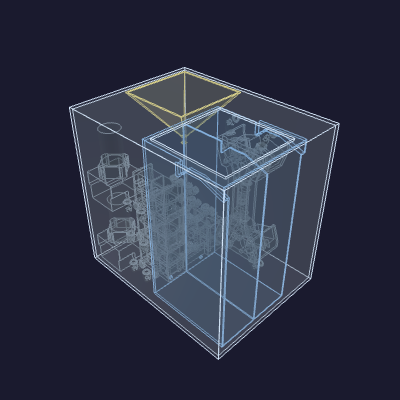
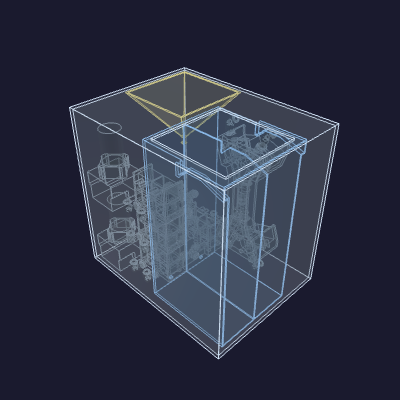
pie-in-the-sky/lite: regenerate enclosure (outer X 311.1 -> 311.8 mm)
Regenerated lite enclosure + assembly artifacts; the docgen-driven outer
envelope X updates to 311.8 mm from the live lite contents.

diff --git a/pie-in-the-sky/lite/enclosure/README.md b/pie-in-the-sky/lite/enclosure/README.md
@@ -21,7 +21,7 @@ contents bbox, lid hole clearance [2 mm](LID_HOLE_CLEARANCE) off the funnel
 rim. Read live from the contents placed by `../enclosure-assembly/_contents.py`
 and from `funnel.step`, so any move in the contents propagates.
 
-Outer envelope [311.1 mm](LITE_OUTER_X) × [235 mm](LITE_OUTER_Y) × [298 mm](LITE_OUTER_Z)
+Outer envelope [311.8 mm](LITE_OUTER_X) × [235 mm](LITE_OUTER_Y) × [298 mm](LITE_OUTER_Z)
 (X × Y × Z); lid hole [134 mm](LID_HOLE_X) × [134 mm](LID_HOLE_Y) centered on
 the funnel column.
 
